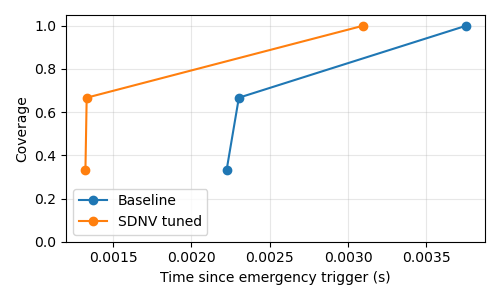
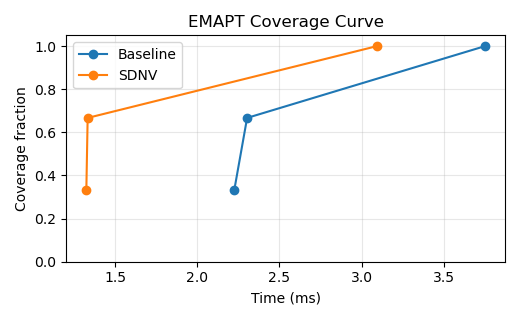
time in msec

Changed region(s): [[0.03, 0.03, 0.99, 0.96]]

diff --git a/measurements/plot_emapt.py b/measurements/plot_emapt.py
@@ -1,0 +1,77 @@
+#!/usr/bin/env python3
+"""Plot EMAPT coverage curve from baseline/SDNV CSV files."""
+
+import argparse
+import csv
+import os
+
+import matplotlib
+matplotlib.use('Agg')
+import matplotlib.pyplot as plt
+
+
+def load_curve(path):
+    with open(path, newline='') as f:
+        reader = csv.reader(f)
+        header = next(reader, [])
+        if not header:
+            return [], [], 'ms'
+        time_label = header[0]
+        times = []
+        coverage = []
+        for row in reader:
+            if len(row) < 2:
+                continue
+            try:
+                times.append(float(row[0]))
+                coverage.append(float(row[1]))
+            except ValueError:
+                continue
+
+    unit = 'ms'
+    if 'time_s' in time_label or 'seconds' in time_label:
+        unit = 's'
+    return times, coverage, unit
+
+
+def main():
+    parser = argparse.ArgumentParser(description='Plot EMAPT coverage curves')
+    parser.add_argument('--baseline', default='results/coverage_curve_baseline.csv')
+    parser.add_argument('--sdnv', default='results/coverage_curve_sdnv.csv')
+    parser.add_argument('--out', default='results/coverage_curve.png')
+    args = parser.parse_args()
+
+    b_times, b_cov, b_unit = load_curve(args.baseline)
+    s_times, s_cov, s_unit = load_curve(args.sdnv)
+
+    # Convert seconds to milliseconds if needed.
+    if b_unit == 's':
+        b_times = [t * 1000.0 for t in b_times]
+    if s_unit == 's':
+        s_times = [t * 1000.0 for t in s_times]
+
+    plt.figure(figsize=(5.2, 3.2))
+    if b_times:
+        plt.plot(b_times, b_cov, marker='o', label='Baseline')
+    if s_times:
+        plt.plot(s_times, s_cov, marker='o', label='SDNV')
+
+    plt.title('EMAPT Coverage Curve')
+    plt.xlabel('Time (ms)')
+    plt.ylabel('Coverage fraction')
+    plt.ylim(0, 1.05)
+    plt.grid(True, alpha=0.3)
+    plt.legend()
+    plt.tight_layout()
+
+    out_dir = os.path.dirname(args.out)
+    if out_dir:
+        os.makedirs(out_dir, exist_ok=True)
+    plt.savefig(args.out)
+    plt.close()
+
+    print(f"Wrote {args.out}")
+
+
+if __name__ == '__main__':
+    main()

diff --git a/measurements/emapt_analyze.py b/measurements/emapt_analyze.py
@@ -34,7 +34,7 @@ def main():
     for path in rx_logs:
         t = parse_time(path, 'first_rx_epoch')
         if t is not None:
-            times.append(t - t0)
+            times.append((t - t0) * 1000.0)
 
     times.sort()
     n = len(times)
@@ -51,12 +51,12 @@ def main():
     emapt_100 = times[-1]
 
     with open(args.out, 'w') as f:
-        f.write(f"emapt_50={emapt_50:.6f}\n")
-        f.write(f"emapt_90={emapt_90:.6f}\n")
-        f.write(f"emapt_100={emapt_100:.6f}\n")
-        f.write("coverage_curve_seconds,coverage_fraction\n")
+        f.write(f"emapt_50_ms={emapt_50:.3f}\n")
+        f.write(f"emapt_90_ms={emapt_90:.3f}\n")
+        f.write(f"emapt_100_ms={emapt_100:.3f}\n")
+        f.write("coverage_curve_ms,coverage_fraction\n")
         for i, t in enumerate(times, start=1):
-            f.write(f"{t:.6f},{i/n:.3f}\n")
+            f.write(f"{t:.3f},{i/n:.3f}\n")
 
     print(f"Wrote {args.out}")
 

diff --git a/results/ieee_table_5g_emapt.tex b/results/ieee_table_5g_emapt.tex
@@ -1,5 +1,5 @@
 \begin{table}[t]
-\caption{5G-rate emergency scenario results with EMAPT (latest run)}
+\caption{5G-rate emergency scenario results with EMAPT (latest run, ms)}
 \label{tab:5g-emergency-emapt}
 \centering
 \begin{tabular}{lrr}
@@ -11,9 +11,9 @@ Latency mdev (ms) & 0.033 & 0.231 \\
 Jitter (ms) & 0.018 & 4.613 \\
 Emergency UDP (Mbps) & 10.00 & 9.13 \\
 Background TCP (Mbps) & 763.00 & 18.70 \\
-EMAPT-50 (s) & 0.002225 & 0.001324 \\
-EMAPT-90 (s) & 0.002303 & 0.001332 \\
-EMAPT-100 (s) & 0.003752 & 0.003094 \\
+EMAPT-50 (ms) & 2.225 & 1.324 \\
+EMAPT-90 (ms) & 2.303 & 1.332 \\
+EMAPT-100 (ms) & 3.752 & 3.094 \\
 Traffic suppression efficiency (\%) & -- & 97.55 \\
 Policy reaction time (s) & -- & 0.0871 \\
 Priority enforcement ratio & 0.0131 & 0.4882 \\

diff --git a/results/ieee_table_emapt.tex b/results/ieee_table_emapt.tex
@@ -1,14 +1,14 @@
 \begin{table}[t]
-\caption{EMAPT results (latest run)}
+\caption{EMAPT results (latest run, ms)}
 \label{tab:emapt}
 \centering
 \begin{tabular}{lrr}
 \hline
 Metric & Baseline & SDNV (tuned) \\
 \hline
-EMAPT-50 (s) & 0.002225 & 0.001324 \\
-EMAPT-90 (s) & 0.002303 & 0.001332 \\
-EMAPT-100 (s) & 0.003752 & 0.003094 \\
+EMAPT-50 (ms) & 2.225 & 1.324 \\
+EMAPT-90 (ms) & 2.303 & 1.332 \\
+EMAPT-100 (ms) & 3.752 & 3.094 \\
 \hline
 \end{tabular}
 \end{table}

diff --git a/README.md b/README.md
@@ -238,8 +238,8 @@ SDNV tuned (`sdnv_5g_tuned2`):
 5. Background TCP: 18.7 Mbps
 
 EMAPT (awareness propagation):
-1. Baseline EMAPT-50/90/100: 0.002225 / 0.002303 / 0.003752 s
-2. SDNV EMAPT-50/90/100: 0.001324 / 0.001332 / 0.003094 s
+1. Baseline EMAPT-50/90/100: 2.225 / 2.303 / 3.752 ms
+2. SDNV EMAPT-50/90/100: 1.324 / 1.332 / 3.094 ms
 
 Derived metrics:
 1. Traffic suppression efficiency: 97.55%
